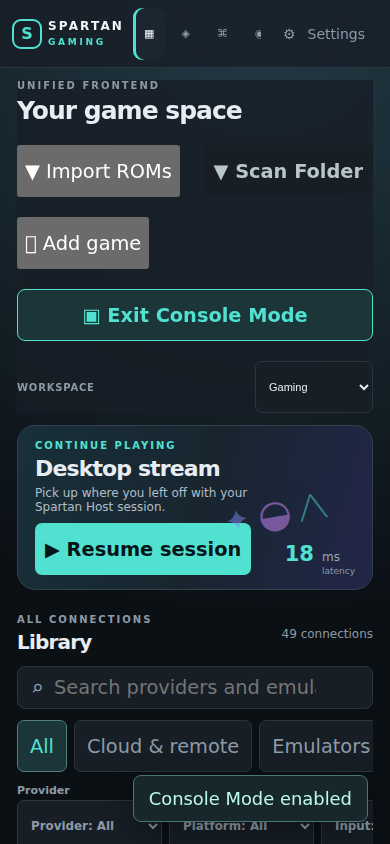
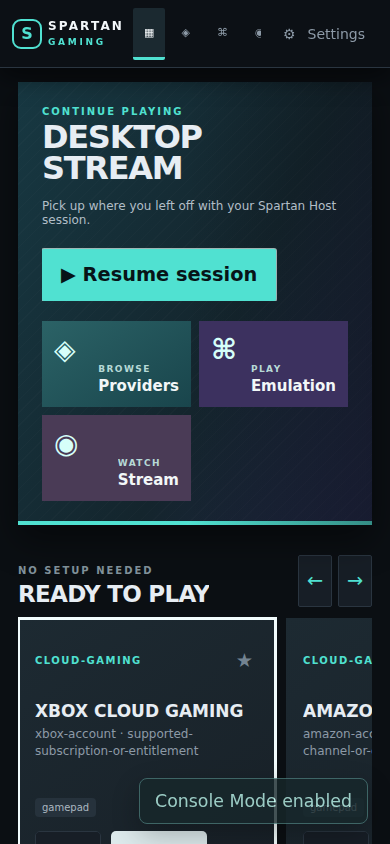
feat: refine console hub into Xbox-style tile layout

diff --git a/src/frontend/dashboard/console-mode.css b/src/frontend/dashboard/console-mode.css
@@ -156,3 +156,293 @@ body.console-mode select:focus-visible {
     font-size: 22px;
   }
 }
+
+/* Xbox One-inspired hub composition: preserve Spartan colors, change hierarchy to tiles and rails. */
+body.console-mode {
+  background: #0b0f13;
+}
+body.console-mode .app-shell {
+  min-height: 100dvh;
+}
+body.console-mode .sidebar {
+  position: sticky;
+  top: 0;
+  z-index: 4;
+  background: rgba(12, 17, 22, 0.97);
+  box-shadow: 0 8px 26px #0008;
+}
+body.console-mode .main-nav .nav-item {
+  border-radius: 2px;
+  border-bottom: 3px solid transparent;
+}
+body.console-mode .main-nav .nav-item:hover,
+body.console-mode .main-nav .nav-item.is-active {
+  background: #1b2930;
+  border-bottom-color: var(--cyan);
+  box-shadow: none;
+}
+body.console-mode .content {
+  max-width: 1600px;
+  margin: 0 auto;
+  overflow-y: auto;
+  overflow-x: hidden;
+  padding: 22px 42px 46px;
+}
+body.console-mode .topbar {
+  min-height: 34px;
+  margin-bottom: 12px;
+}
+body.console-mode .topbar h1,
+body.console-mode .topbar .eyebrow,
+body.console-mode .topbar .status-pill,
+body.console-mode .topbar .workspace-picker,
+body.console-mode .topbar .rom-import,
+body.console-mode .topbar .rom-scan,
+body.console-mode .topbar .add-game {
+  display: none !important;
+}
+body.console-mode .topbar .console-mode-toggle {
+  display: inline-flex;
+  margin-left: auto;
+  border-radius: 2px;
+  padding: 7px 10px;
+  background: transparent;
+  color: #72828b;
+}
+body.console-mode .hero {
+  display: grid;
+  grid-template-columns: minmax(360px, 1.15fr) minmax(280px, 0.85fr);
+  min-height: 300px;
+  margin: 0 0 30px;
+  padding: 34px 38px;
+  border: 0;
+  border-radius: 0;
+  background: linear-gradient(115deg, #173842 0%, #14252d 58%, #202342 100%);
+  box-shadow:
+    inset 0 -4px 0 var(--cyan),
+    0 14px 34px #0007;
+}
+body.console-mode .hero::after {
+  content: '';
+  position: absolute;
+  inset: 0;
+  pointer-events: none;
+  background:
+    linear-gradient(90deg, transparent 48%, #0b101566),
+    repeating-linear-gradient(135deg, #ffffff04 0 1px, transparent 1px 9px);
+}
+body.console-mode .hero > div:first-child {
+  position: relative;
+  z-index: 1;
+  align-self: center;
+}
+body.console-mode .hero h2 {
+  max-width: 520px;
+  font-size: clamp(32px, 4vw, 58px);
+  line-height: 0.98;
+  text-transform: uppercase;
+}
+body.console-mode .hero-copy {
+  max-width: 440px;
+  margin: 14px 0 22px;
+}
+body.console-mode .primary-button {
+  border-radius: 2px;
+  padding: 13px 19px;
+  box-shadow: 0 0 0 1px #dffaf5aa;
+}
+body.console-mode .hero-art,
+body.console-mode .latency {
+  display: none;
+}
+body.console-mode .console-tile-grid {
+  position: relative;
+  z-index: 1;
+  display: grid;
+  grid-template-columns: repeat(2, minmax(120px, 1fr));
+  grid-template-rows: repeat(2, minmax(86px, 1fr));
+  gap: 8px;
+  align-self: stretch;
+}
+body.console-mode .console-tile {
+  display: flex;
+  align-items: flex-end;
+  justify-content: space-between;
+  min-height: 92px;
+  padding: 15px;
+  border: 0;
+  border-radius: 0;
+  color: #f2f7f8;
+  background: #1d5559;
+  text-align: left;
+  font-size: 15px;
+  font-weight: 850;
+  transition:
+    transform 0.12s ease,
+    outline 0.12s ease,
+    filter 0.12s ease;
+}
+body.console-mode .console-tile:nth-child(1) {
+  grid-row: span 2;
+  background: linear-gradient(145deg, #2b6266, #19454c);
+}
+body.console-mode .console-tile:nth-child(2) {
+  background: #3c315f;
+}
+body.console-mode .console-tile:nth-child(3) {
+  background: #4a3b56;
+}
+body.console-mode .console-tile:hover,
+body.console-mode .console-tile:focus-visible {
+  z-index: 2;
+  outline: 3px solid #f4ffff;
+  outline-offset: -3px;
+  filter: brightness(1.18);
+  transform: scale(1.015);
+}
+body.console-mode .console-tile span:last-child {
+  display: flex;
+  flex-direction: column;
+  gap: 3px;
+}
+body.console-mode .console-tile small {
+  color: #b6d9d6;
+  font-size: 9px;
+  font-weight: 750;
+  letter-spacing: 0.16em;
+  text-transform: uppercase;
+}
+body.console-mode .console-tile-icon {
+  align-self: flex-start;
+  color: #d6fff9;
+  font-size: 28px;
+}
+body.console-mode .library-section {
+  max-width: none;
+}
+body.console-mode .library-section > .section-heading,
+body.console-mode .library-section > .toolbar {
+  display: none;
+}
+body.console-mode .content-shelf {
+  margin-bottom: 30px;
+}
+body.console-mode .shelf-heading {
+  margin: 0 0 9px;
+}
+body.console-mode .shelf-heading .eyebrow {
+  color: #82939c;
+}
+body.console-mode .shelf-heading h3 {
+  font-size: 23px;
+  text-transform: uppercase;
+}
+body.console-mode .shelf-viewport {
+  gap: 10px;
+  padding: 2px 3px 12px;
+  scrollbar-width: auto;
+}
+body.console-mode .shelf-viewport .card {
+  flex-basis: 258px;
+  min-height: 166px;
+  padding: 17px;
+  border: 0;
+  border-radius: 0;
+  background: linear-gradient(145deg, #1d2a32, #182027);
+  box-shadow: inset 0 -3px 0 #48606a;
+}
+body.console-mode .shelf-viewport .card:hover,
+body.console-mode .shelf-viewport .card:focus-within {
+  border: 0;
+  outline: 3px solid #f4ffff;
+  outline-offset: -3px;
+  transform: none;
+}
+body.console-mode .shelf-viewport .card h3 {
+  font-size: 17px;
+  text-transform: uppercase;
+}
+body.console-mode .shelf-viewport .card p {
+  display: -webkit-box;
+  overflow: hidden;
+  -webkit-box-orient: vertical;
+  -webkit-line-clamp: 2;
+}
+body.console-mode .shelf-controls button {
+  border-radius: 2px;
+}
+@media (max-width: 800px) {
+  body.console-mode .content {
+    padding: 14px 18px 34px;
+  }
+  body.console-mode .hero {
+    grid-template-columns: 1fr;
+    min-height: 0;
+    gap: 20px;
+    padding: 24px;
+  }
+  body.console-mode .console-tile-grid {
+    min-height: 164px;
+  }
+  body.console-mode .console-tile {
+    min-height: 76px;
+    padding: 12px;
+  }
+  body.console-mode .console-tile:nth-child(1) {
+    grid-row: auto;
+  }
+  body.console-mode .shelf-viewport .card {
+    flex-basis: min(78vw, 258px);
+  }
+}
+body.console-mode .topbar {
+  position: relative;
+  height: 0;
+  min-height: 0;
+  margin: 0;
+}
+body.console-mode .topbar .console-mode-toggle {
+  position: absolute;
+  top: 8px;
+  right: 0;
+  z-index: 5;
+}
+@media (max-width: 800px) {
+  body.console-mode .topbar .console-mode-toggle {
+    top: 6px;
+    right: 0;
+  }
+}
+body.console-mode .topbar {
+  z-index: 10;
+  pointer-events: none;
+}
+body.console-mode .topbar .console-mode-toggle {
+  pointer-events: auto;
+}
+body.console-mode .topbar .console-mode-toggle {
+  position: fixed;
+  top: 82px;
+  right: 30px;
+  z-index: 50;
+}
+@media (max-width: 800px) {
+  body.console-mode .topbar .console-mode-toggle {
+    top: 76px;
+    right: 18px;
+  }
+}
+body.console-mode .topbar .console-mode-toggle {
+  top: 78px;
+  right: 30px;
+  padding: 5px 8px;
+  font-size: 10px;
+}
+@media (max-width: 800px) {
+  body.console-mode .topbar .console-mode-toggle {
+    top: 70px;
+    right: 18px;
+    padding: 4px 7px;
+    font-size: 10px;
+  }
+}

diff --git a/src/frontend/dashboard/index.html b/src/frontend/dashboard/index.html
@@ -132,6 +132,25 @@
           <div class="latency">
             <strong>18</strong><span>ms<br /><small>latency</small></span>
           </div>
+          <div class="console-tile-grid" aria-label="Quick Access">
+            <button
+              class="console-tile console-tile-providers"
+              type="button"
+              data-section="providers"
+            >
+              <span class="console-tile-icon">◈</span><span><small>Browse</small>Providers</span>
+            </button>
+            <button
+              class="console-tile console-tile-emulation"
+              type="button"
+              data-section="emulation"
+            >
+              <span class="console-tile-icon">⌘</span><span><small>Play</small>Emulation</span>
+            </button>
+            <button class="console-tile console-tile-watch" type="button" data-section="watch">
+              <span class="console-tile-icon">◉</span><span><small>Watch</small>Stream</span>
+            </button>
+          </div>
         </section>
         <section class="library-section">
           <div class="section-heading">
